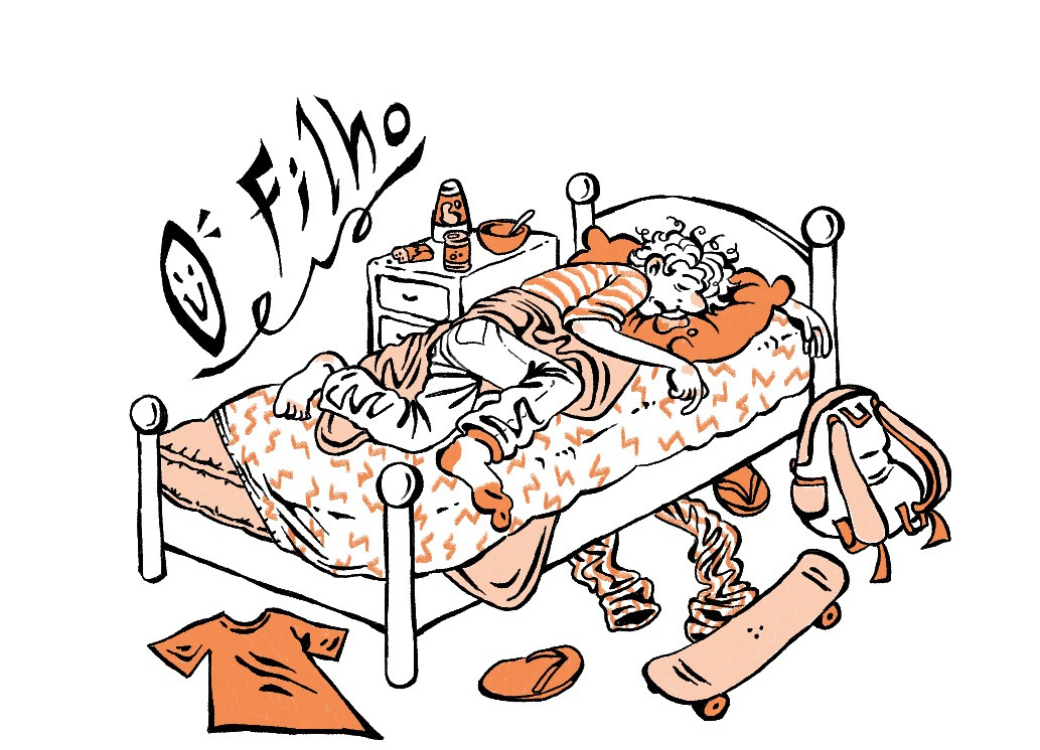
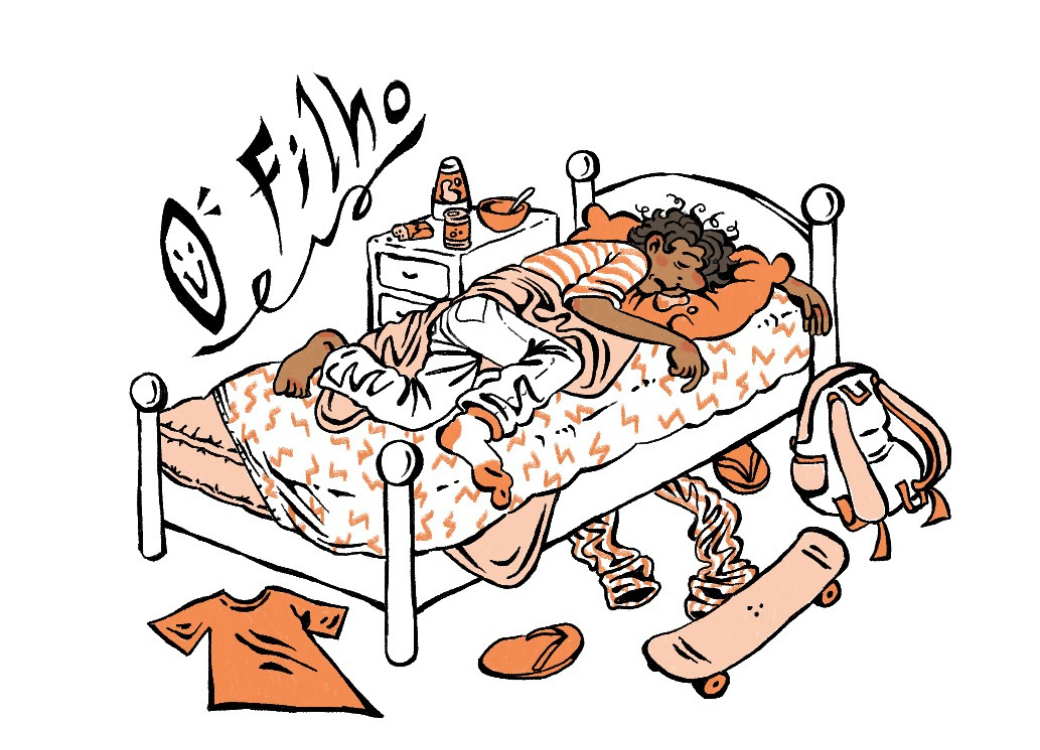
adicionado alerta de indisponíveis, cores de personagens e disabled

Changed region(s): [[0.1231, 0.092, 0.9231, 1.0]]

diff --git a/src/components/Door.jsx b/src/components/Door.jsx
@@ -1,12 +1,68 @@
+import { useState, useEffect } from "react";
 import { Link } from "react-router-dom";
 
-const Door = (props) => {
+// eslint-disable-next-line no-unused-vars
+const WarningToast = ({ message, onClose }) => {
   return (
-    <Link to={`/dream/${props.url}`} class="">
-      <div class="card-img max-w-72 overflow-hidden rounded-xl bg-white shadow-indigo-300/10 shadow-xl mt-5 flex flex-col hover:translate-y-2 transition-all 1s items-center justify-center p-3">
-        <img class="object-cover w-full h-full" src={props.img} alt={props.title} />
+    <div className="fixed top-10 right-0 left-0 mx-auto z-50 flex items-center w-full max-w-sm p-4 space-x-3 text-amber-800 bg-amber-50 border-l-4 border-amber-400 rounded-lg shadow-lg animate-bounce-in">
+      <div className="inline-flex items-center justify-center shrink-0 w-8 h-8 text-amber-500 bg-amber-100 rounded-lg">
+        <span className="material-symbols-outlined text-xl">warning</span>
       </div>
-    </Link>
+      <div className="pl-2 text-sm font-normal">
+        <div className="font-bold text-lg mb-1">Ooof indisponível</div>
+        Aguarde maluzita para mais atualizações
+      </div>
+    </div>
+  );
+};
+
+const Door = (props) => {
+  const [showAlert, setShowAlert] = useState(false);
+  const isComplete = props.status === 'complete';
+
+  useEffect(() => {
+    if (showAlert) {
+      const timer = setTimeout(() => {
+        setShowAlert(false);
+      }, 3000);
+      return () => clearTimeout(timer);
+    }
+  }, [showAlert]);
+
+  const handleClick = (e) => {
+    if (!isComplete) {
+      e.preventDefault(); 
+      setShowAlert(true); 
+    }
+  };
+
+  const cardClasses = !isComplete 
+    ? "card-img max-w-72 overflow-hidden rounded-xl bg-white shadow-xl mt-5 flex flex-col items-center justify-center p-3 opacity-60 grayscale-[50%] transition-all duration-300 cursor-not-allowed"
+    : "card-img max-w-72 overflow-hidden rounded-xl bg-white shadow-indigo-300/10 shadow-xl mt-5 flex flex-col hover:translate-y-2 transition-all 1s items-center justify-center p-3 cursor-pointer";
+
+  return (
+    <>
+      {showAlert && (
+        <WarningToast 
+          message="" 
+          onClose={() => setShowAlert(false)} 
+        />
+      )}
+
+      <Link 
+        to={`/dream/${props.url}`} 
+        onClick={handleClick}
+        className={!isComplete ? "cursor-default" : ""}
+      >
+        <div className={cardClasses}>
+          <img 
+            className="object-cover w-full h-full rounded-lg" 
+            src={props.img} 
+            alt={props.title} 
+          />
+        </div>
+      </Link>
+    </>
   );
 };
 

diff --git a/src/assets/data.js b/src/assets/data.js
@@ -10,6 +10,7 @@ let sonho = [
         color_btn: 'bg-[#9ace79]',
         color_btn_hover: 'hover:bg-[#7FC254]',
         svg: padroes.glasses,
+        status: 'incomplete',
 
     },
     {   
@@ -21,6 +22,7 @@ let sonho = [
         color_btn: 'bg-[#f33b55]',
         color_btn_hover: 'hover:bg-[#E61E3C]',
         svg: padroes.highHeel,
+        status: 'incomplete',
 
     },
     {   
@@ -32,6 +34,7 @@ let sonho = [
         color_btn: 'bg-[#ea8b58]',
         color_btn_hover: 'hover:bg-[#E6733E]',
         svg: padroes.basketball,
+        status: 'incomplete',
 
     },
     {
@@ -43,6 +46,7 @@ let sonho = [
         color_btn: 'bg-[#8772f3]',
         color_btn_hover: 'hover:bg-[#6E57E8]',
         svg: padroes.headphones,
+        status: 'complete',
     },
     
     {
@@ -54,6 +58,7 @@ let sonho = [
         color_btn: 'bg-[#f19bc2]',
         color_btn_hover: 'hover:bg-[#E78BBA]',
         svg: padroes.teddy,
+        status: 'complete',
     }
 
 ];

diff --git a/index.html b/index.html
@@ -9,7 +9,7 @@
   <title>Stolen Nightmares</title>
   <link rel="stylesheet" href="./src/index.css" />
   <link rel="stylesheet"
-    href="https://fonts.googleapis.com/css2?family=Material+Symbols+Outlined:opsz,wght,FILL,GRAD@20..48,100..700,0..1,-50..200&icon_names=alarm,moon_stars,partly_cloudy_night&display=block" />
+    href="https://fonts.googleapis.com/css2?family=Material+Symbols+Outlined:opsz,wght,FILL,GRAD@20..48,100..700,0..1,-50..200&icon_names=alarm,moon_stars,partly_cloudy_night,warning&display=block" />
     
 </head>
 

diff --git a/src/pages/Home.jsx b/src/pages/Home.jsx
@@ -30,6 +30,7 @@ const Home = () => {
                   url={sonho.id}
                   img={sonho.url_imagem}
                   title={sonho.nome}
+                  status={sonho.status}
                 />
               );
             })}
